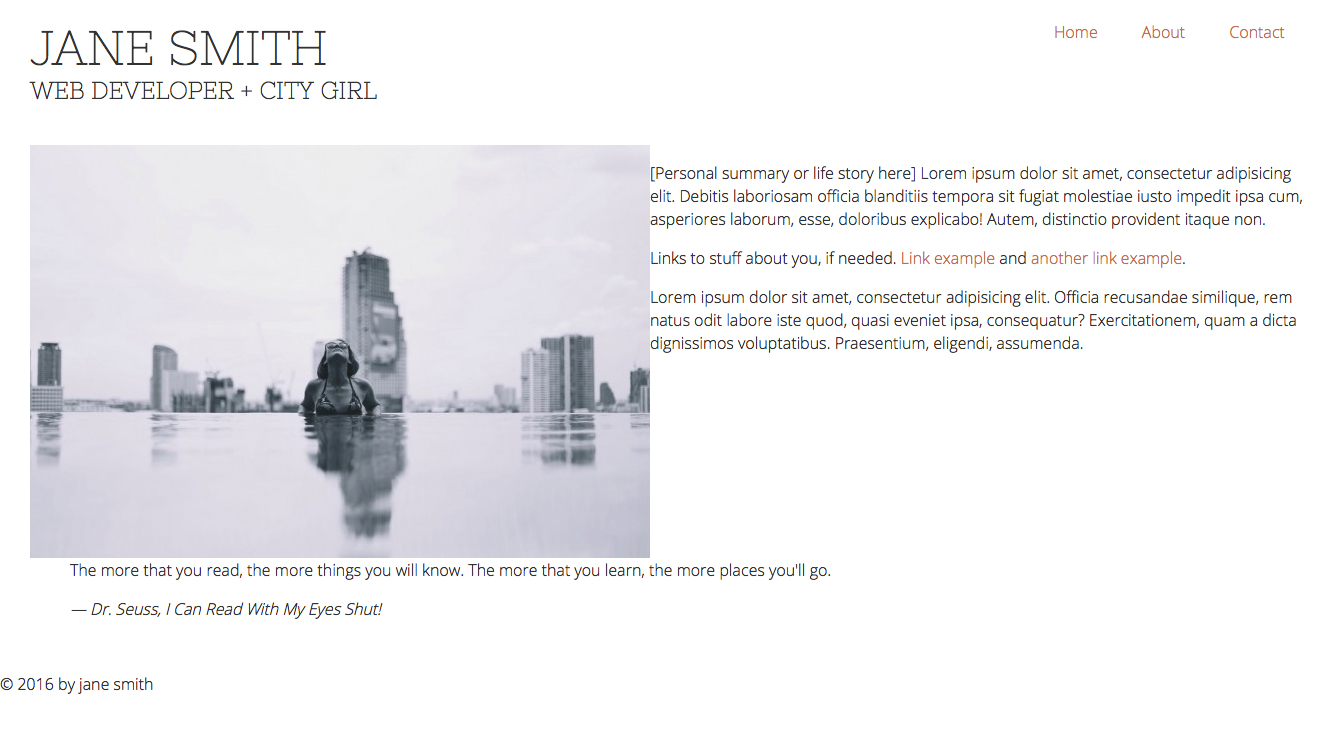
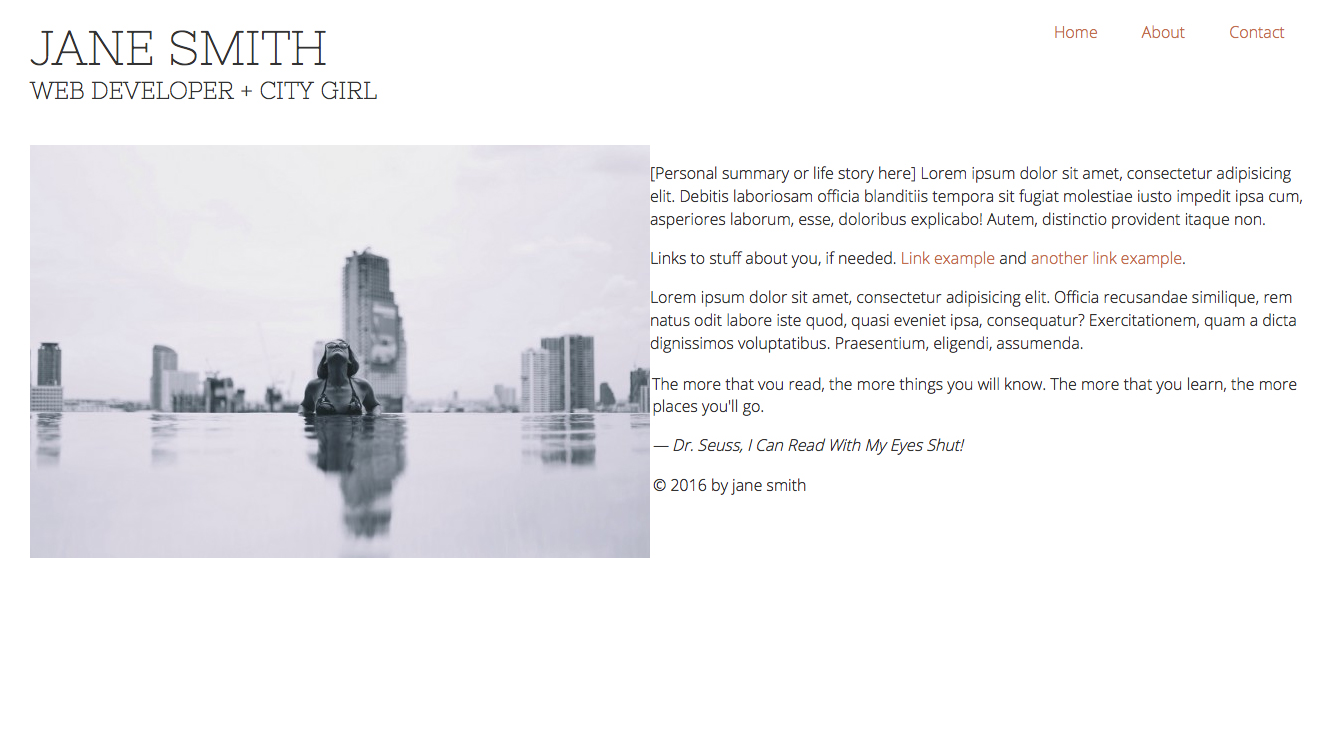
topic-1 Prepared/insert new supporting assets to illustrate 'About' page development.

diff --git a/slides.html b/slides.html
@@ -1746,7 +1746,7 @@ text-transform: lowercase;</textarea>
         Let's talk about why the About page currently looks like the example on the left and how to get it to look like the example on the right.
 
         ![](framework/img/workshop/about-not-floated.png)
-        ![](framework/img/workshop/about-floated.png)
+        ![](framework/img/workshop/about-complete.png)
       </script>
     </section>
 
@@ -1814,7 +1814,6 @@ text-transform: lowercase;</textarea>
         ---
         ###Resources
 
-        * /// TODO
         * http://caniuse.com/#search=flexbox
         * [Floats, Inline Block or Display Table? Or Flexbox?](http://blog.karenmenezes.com/2014/apr/13/floats-inline-block-or-display-table-or-flexbox/)
         * [Float vs Inline-block](http://www.ternstyle.us/blog/float-vs-inline-block)
@@ -1900,8 +1899,8 @@ text-transform: lowercase;</textarea>
 
         Currently, our page looks like the example on the left. We'll use `flexbox` to make it look like the example on the right.
 
-        ![](http://via.placeholder.com/450x300?=///TODO)
-        ![](http://via.placeholder.com/450x300?=///TODO)
+        ![](framework/img/workshop/about-not-floated.png)
+        ![](framework/img/workshop/about-header-complete.png)
       </script>
     </section>
 
@@ -1913,7 +1912,8 @@ text-transform: lowercase;</textarea>
 
         By defualt, block elements take up 100% of the available horizontal space. We can use the `float` property to make them share that space!
 
-        /// TODO: Generic image comparison
+        ![](framework/img/workshop/layout-without-float.png) <!-- .element: width="25%" -->
+        ![](framework/img/workshop/layout-with-float.png) <!-- .element: width="25%" -->
       </script>
     </section>
 
@@ -1938,8 +1938,8 @@ img {
 
         Currently, our page looks like the example on the left. If we `float` the image then the text content will move up beside it, giving us the example on the right.
 
-        ![](http://via.placeholder.com/450x300?=///TODO)
-        ![](http://via.placeholder.com/450x300?=///TODO)
+        ![](framework/img/workshop/about-header-complete.png)
+        ![](framework/img/workshop/about-floated.png)
       </script>
     </section>
 
